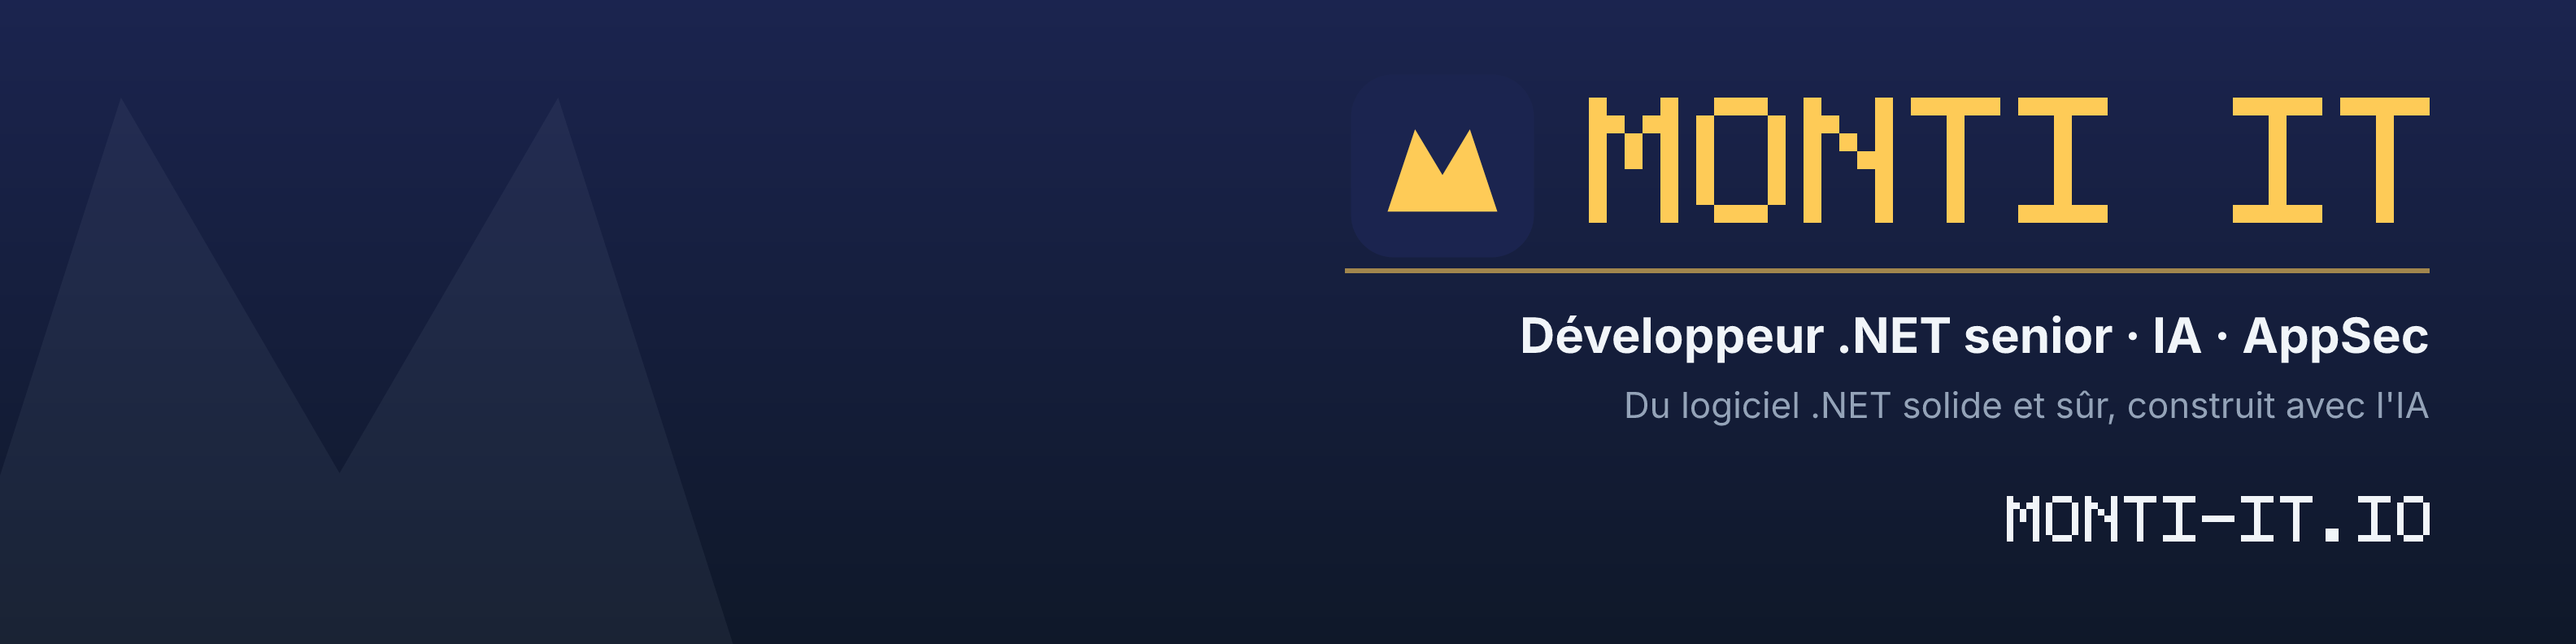
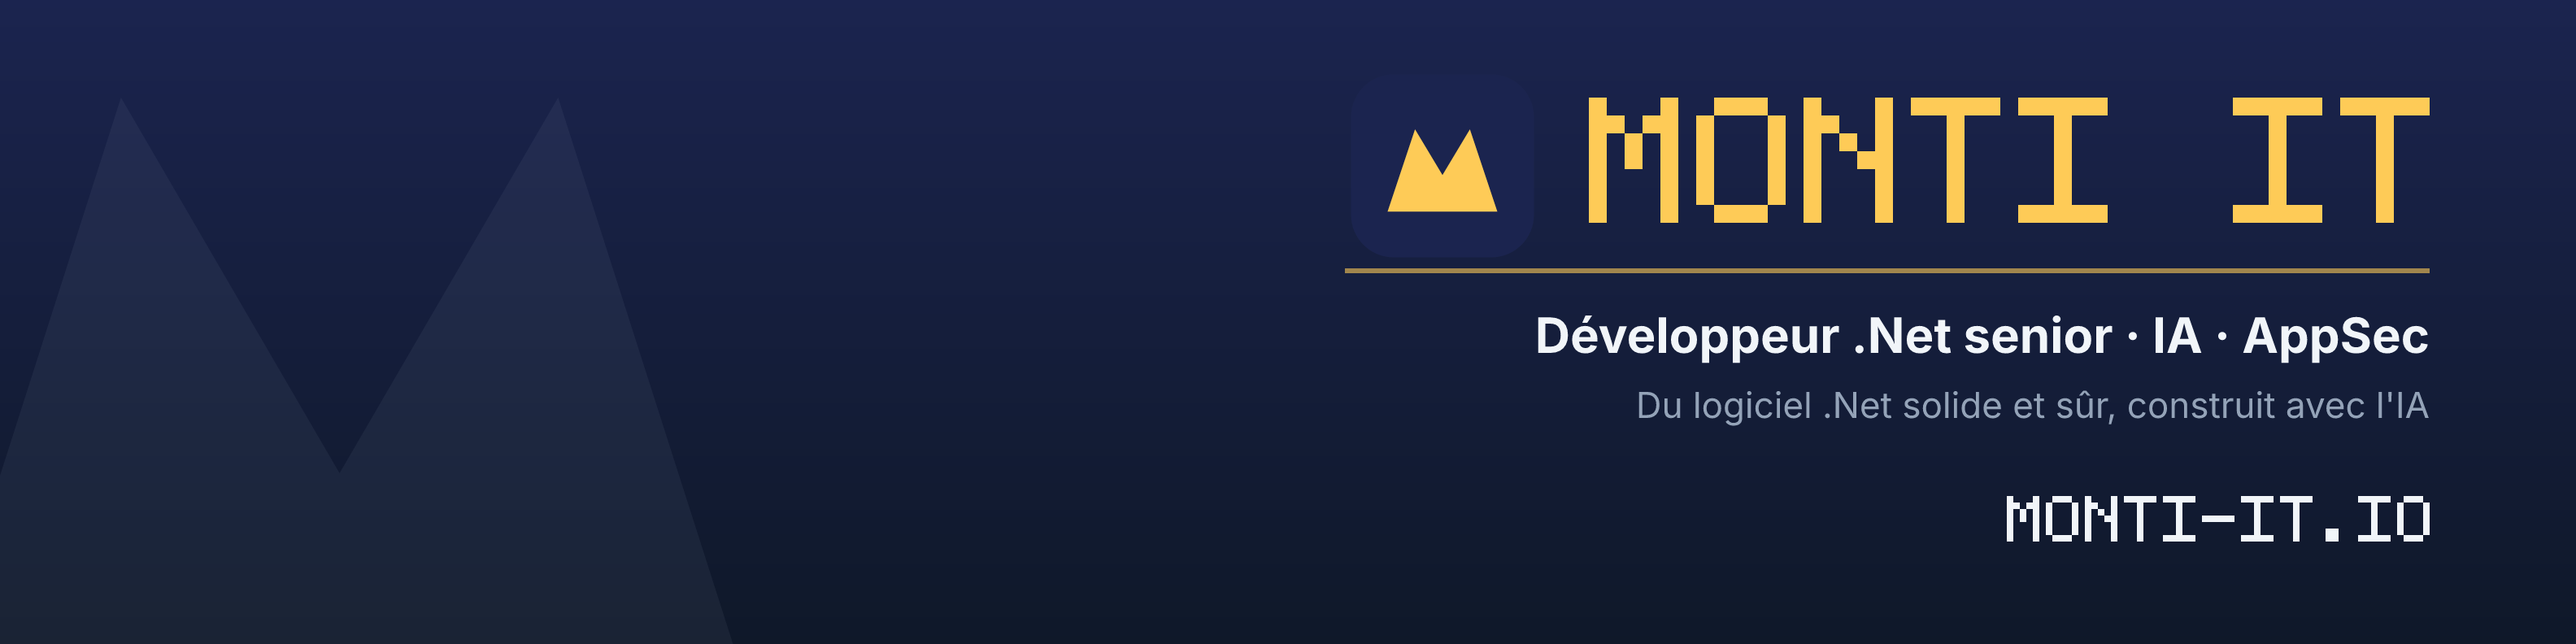
feat: say "Développeur .Net senior" in the role title and write ".Net" everywhere (#140)
* feat: say "Développeur .Net FullStack senior" in the role title (#136)

* feat: write ".Net" in the hero stack tag and Skills (#136)

* docs(linkedin): keep "Développeur .Net FullStack senior" and write ".Net" (#136)

* chore: regenerate the résumé PDF and the banners (#136)

* feat: keep "FullStack" out of the role title, only in the About (#136)

The role title is back to "Développeur .Net senior" / "Senior .Net
developer" in the eyebrow, SEO titles, index.html, banner alt and the
résumé title. "FullStack" stays only in the résumé profile sentence and,
per the LinkedIn skill, once in the About, as a search keyword.

---------

Changed region(s): [[0.5938, 0.4848, 0.7812, 0.5758], [0.625, 0.6061, 0.75, 0.6667]]

diff --git a/src/i18n/translations.js b/src/i18n/translations.js
@@ -24,9 +24,9 @@ export const translations = {
       rights: 'Tous droits réservés.'
     },
     header: {
-      eyebrow: 'Développeur .NET senior · IA · AppSec',
-      title: "Du logiciel .NET solide et sûr, construit avec l'IA",
-      lead: 'Votre application .NET modernisée plus vite, sans rien céder sur la qualité : architecture robuste, code testé, failles fermées avant la prod. Des agents IA écrivent le code sous ma direction, et 21 ans de .NET me permettent de le juger avec un œil de sécurité.',
+      eyebrow: 'Développeur .Net senior · IA · AppSec',
+      title: "Du logiciel .Net solide et sûr, construit avec l'IA",
+      lead: 'Votre application .Net modernisée plus vite, sans rien céder sur la qualité : architecture robuste, code testé, failles fermées avant la prod. Des agents IA écrivent le code sous ma direction, et 21 ans de .Net me permettent de le juger avec un œil de sécurité.',
       ctaMore: 'En savoir plus',
       panelTitle: 'Expertise & impact',
       panelQuote:
@@ -47,7 +47,7 @@ export const translations = {
         competences: {
           title: 'Stack technique complète',
           description:
-            '.NET, Angular, React, bases de données, cloud et outils DevOps'
+            '.Net, Angular, React, bases de données, cloud et outils DevOps'
         },
         securite: {
           title: 'AppSec & IA',
@@ -80,7 +80,7 @@ export const translations = {
       eyebrow: 'Expertise',
       title: "Ce que j'apporte à une équipe",
       subtitle:
-        'Du code .NET solide et sûr, une équipe qui progresse, un besoin clairement posé.',
+        'Du code .Net solide et sûr, une équipe qui progresse, un besoin clairement posé.',
       pillars: {
         ai: {
           title: "Construire avec l'IA",
@@ -483,7 +483,7 @@ export const translations = {
       eyebrow: 'Informations légales',
       title: 'Mentions légales',
       bindingNote: '',
-      bannerAlt: 'Monti IT, développeur .NET senior freelance',
+      bannerAlt: 'Monti IT, développeur .Net senior freelance',
       sections: {
         publisher: {
           title: 'Éditeur du site',
@@ -634,9 +634,9 @@ export const translations = {
     },
     seo: {
       home: {
-        title: 'Développeur .NET senior freelance · IA & AppSec',
+        title: 'Développeur .Net senior freelance · IA & AppSec',
         description:
-          '21 ans de .NET : des agents IA écrivent le code sous ma direction, je le relis avec un œil de sécurité. Missions ou forfait.'
+          '21 ans de .Net : des agents IA écrivent le code sous ma direction, je le relis avec un œil de sécurité. Missions ou forfait.'
       },
       expertise: {
         title: 'Expertise & Leadership technique',
@@ -644,9 +644,9 @@ export const translations = {
           "Pilotage d'équipe, software craftsmanship, CI/CD, sécurité et méthodes Agile : l'accompagnement technique complet d'un développeur senior freelance."
       },
       competences: {
-        title: 'Compétences techniques — .NET, Angular, React, Azure DevOps',
+        title: 'Compétences techniques — .Net, Angular, React, Azure DevOps',
         description:
-          'Stack technique complète : C#, .NET Core, Angular, React, TypeScript, SQL Server, Azure DevOps, Docker, Kubernetes et bonnes pratiques de sécurité.'
+          'Stack technique complète : C#, .Net Core, Angular, React, TypeScript, SQL Server, Azure DevOps, Docker, Kubernetes et bonnes pratiques de sécurité.'
       },
       reseau: {
         title: 'Réseau & Infrastructure',
@@ -680,7 +680,7 @@ export const translations = {
       resume: {
         title: 'Résumé de carrière',
         description:
-          "Christophe Monti, développeur .NET senior : modernisation d'applications .NET critiques avec l'IA, sans céder sur la qualité ni la sécurité applicative. Parcours et expériences."
+          "Christophe Monti, développeur .Net senior : modernisation d'applications .Net critiques avec l'IA, sans céder sur la qualité ni la sécurité applicative. Parcours et expériences."
       },
       notFound: {
         title: 'Page introuvable',
@@ -767,9 +767,9 @@ export const translations = {
       rights: 'All rights reserved.'
     },
     header: {
-      eyebrow: 'Senior .NET developer · AI · AppSec',
-      title: 'Solid, secure .NET software, built with AI',
-      lead: 'Your .NET application modernized faster, with no compromise on quality: robust architecture, tested code, vulnerabilities closed before production. AI agents write the code under my direction, and 21 years of .NET let me judge it with a security mindset.',
+      eyebrow: 'Senior .Net developer · AI · AppSec',
+      title: 'Solid, secure .Net software, built with AI',
+      lead: 'Your .Net application modernized faster, with no compromise on quality: robust architecture, tested code, vulnerabilities closed before production. AI agents write the code under my direction, and 21 years of .Net let me judge it with a security mindset.',
       ctaMore: 'Learn more',
       panelTitle: 'Expertise & impact',
       panelQuote:
@@ -790,7 +790,7 @@ export const translations = {
         competences: {
           title: 'Full technical stack',
           description:
-            '.NET, Angular, React, databases, cloud and DevOps tooling'
+            '.Net, Angular, React, databases, cloud and DevOps tooling'
         },
         securite: {
           title: 'AppSec & AI',
@@ -823,7 +823,7 @@ export const translations = {
       eyebrow: 'Expertise',
       title: 'What I bring to a team',
       subtitle:
-        'Solid, secure .NET code, a team that keeps growing, and requirements that are clearly defined.',
+        'Solid, secure .Net code, a team that keeps growing, and requirements that are clearly defined.',
       pillars: {
         ai: {
           title: 'Building with AI',
@@ -1220,7 +1220,7 @@ export const translations = {
       title: 'Legal notice',
       bindingNote:
         'This English version is provided for convenience. The French version (mentions légales) is the legally binding one.',
-      bannerAlt: 'Monti IT, senior freelance .NET developer',
+      bannerAlt: 'Monti IT, senior freelance .Net developer',
       sections: {
         publisher: {
           title: 'Publisher',
@@ -1373,9 +1373,9 @@ export const translations = {
     },
     seo: {
       home: {
-        title: 'Senior .NET freelance developer · AI & AppSec',
+        title: 'Senior .Net freelance developer · AI & AppSec',
         description:
-          '21 years of .NET: AI agents write the code under my direction, and I review it with a security mindset. Engagements or fixed-price.'
+          '21 years of .Net: AI agents write the code under my direction, and I review it with a security mindset. Engagements or fixed-price.'
       },
       expertise: {
         title: 'Expertise & Technical Leadership',
@@ -1383,9 +1383,9 @@ export const translations = {
           'Team leadership, software craftsmanship, CI/CD, security and Agile methods: the complete technical support of a senior freelance developer.'
       },
       competences: {
-        title: 'Technical Skills — .NET, Angular, React, Azure DevOps',
+        title: 'Technical Skills — .Net, Angular, React, Azure DevOps',
         description:
-          'Full technical stack: C#, .NET Core, Angular, React, TypeScript, SQL Server, Azure DevOps, Docker, Kubernetes and security best practices.'
+          'Full technical stack: C#, .Net Core, Angular, React, TypeScript, SQL Server, Azure DevOps, Docker, Kubernetes and security best practices.'
       },
       reseau: {
         title: 'Network & Infrastructure',
@@ -1419,7 +1419,7 @@ export const translations = {
       resume: {
         title: 'Career résumé',
         description:
-          'Christophe Monti, senior .NET developer: modernizing critical .NET applications with AI, with no compromise on quality or application security. Background and experience.'
+          'Christophe Monti, senior .Net developer: modernizing critical .Net applications with AI, with no compromise on quality or application security. Background and experience.'
       },
       notFound: {
         title: 'Page not found',

diff --git a/src/i18n/roleTitle.test.js b/src/i18n/roleTitle.test.js
@@ -1,0 +1,86 @@
+import { describe, it, expect } from 'vitest'
+import { readFileSync } from 'node:fs'
+import { translations } from './translations'
+// Only tests may import resume.json (see src/data/resume.test.js).
+import resume from '../data/resume.json'
+
+// ".Net" is the preferred spelling; "ASP.NET" stays, it's one product name.
+const standaloneDotNet = /(?<!ASP)\.N[E]T/
+
+const collectStrings = (value, path = []) => {
+  if (typeof value === 'string') return [[path.join('.'), value]]
+  if (value && typeof value === 'object') {
+    return Object.entries(value).flatMap(([key, child]) =>
+      collectStrings(child, [...path, key])
+    )
+  }
+  return []
+}
+
+describe('role title', () => {
+  it.each([
+    ['fr', 'header.eyebrow', 'Développeur .Net senior · IA · AppSec'],
+    ['en', 'header.eyebrow', 'Senior .Net developer · AI · AppSec'],
+    ['fr', 'seo.home.title', 'Développeur .Net senior freelance · IA & AppSec'],
+    ['en', 'seo.home.title', 'Senior .Net freelance developer · AI & AppSec'],
+    [
+      'fr',
+      'legalNotice.bannerAlt',
+      'Monti IT, développeur .Net senior freelance'
+    ],
+    ['en', 'legalNotice.bannerAlt', 'Monti IT, senior freelance .Net developer']
+  ])('%s %s reads the role title', (lang, key, expected) => {
+    const value = key
+      .split('.')
+      .reduce((node, part) => node[part], translations[lang])
+    expect(value).toBe(expected)
+  })
+
+  it.each([
+    ['fr', 'Christophe Monti, développeur .Net senior : '],
+    ['en', 'Christophe Monti, senior .Net developer: ']
+  ])('%s seo.resume.description starts with the role title', (lang, start) => {
+    expect(translations[lang].seo.resume.description.startsWith(start)).toBe(
+      true
+    )
+  })
+
+  it('résumé title reads the role title', () => {
+    expect(resume.title).toBe('Senior .Net Developer · AI · AppSec | Freelance')
+  })
+
+  it('index.html static titles read the French home title', () => {
+    const html = readFileSync(
+      new URL('../../index.html', import.meta.url),
+      'utf8'
+    )
+    const expected =
+      'Développeur .Net senior freelance · IA &amp; AppSec | Monti IT'
+    expect(html.match(/<title>\s*([^<]*?)\s*<\/title>/)[1]).toBe(expected)
+    for (const property of ['og:title', 'twitter:title']) {
+      const meta = html.match(
+        new RegExp(`(?:property|name)="${property}"\\s+content="([^"]*)"`)
+      )
+      expect(meta?.[1], property).toBe(expected)
+    }
+  })
+})
+
+describe('".Net" spelling', () => {
+  it.each(['fr', 'en'])(
+    '%s translations never write the all-caps spelling',
+    (lang) => {
+      const offenders = collectStrings(translations[lang]).filter(([, text]) =>
+        standaloneDotNet.test(text)
+      )
+      expect(offenders).toEqual([])
+    }
+  )
+
+  it('resume.json never writes the all-caps spelling', () => {
+    const offenders = collectStrings(resume).filter(([, text]) =>
+      standaloneDotNet.test(text)
+    )
+    expect(offenders).toEqual([])
+  })
+})

diff --git a/index.html b/index.html
@@ -7,7 +7,7 @@
     <meta name="viewport" content="width=device-width, initial-scale=1.0" />
     <meta
       name="description"
-      content="21 ans de .NET : des agents IA écrivent le code sous ma direction, je le relis avec un œil de sécurité. Missions ou forfait."
+      content="21 ans de .Net : des agents IA écrivent le code sous ma direction, je le relis avec un œil de sécurité. Missions ou forfait."
     />
     <link rel="canonical" href="https://monti-it.io/" />
     <link rel="alternate" hreflang="fr" href="https://monti-it.io/" />
@@ -16,11 +16,11 @@
     <meta property="og:type" content="website" />
     <meta
       property="og:title"
-      content="Développeur .NET senior freelance · IA &amp; AppSec | Monti IT"
+      content="Développeur .Net senior freelance · IA &amp; AppSec | Monti IT"
     />
     <meta
       property="og:description"
-      content="21 ans de .NET : des agents IA écrivent le code sous ma direction, je le relis avec un œil de sécurité. Missions ou forfait."
+      content="21 ans de .Net : des agents IA écrivent le code sous ma direction, je le relis avec un œil de sécurité. Missions ou forfait."
     />
     <meta property="og:url" content="https://monti-it.io/" />
     <meta property="og:image" content="https://monti-it.io/og-image.png" />
@@ -33,14 +33,14 @@
     <meta name="twitter:card" content="summary_large_image" />
     <meta
       name="twitter:title"
-      content="Développeur .NET senior freelance · IA &amp; AppSec | Monti IT"
+      content="Développeur .Net senior freelance · IA &amp; AppSec | Monti IT"
     />
     <meta
       name="twitter:description"
-      content="21 ans de .NET : des agents IA écrivent le code sous ma direction, je le relis avec un œil de sécurité. Missions ou forfait."
+      content="21 ans de .Net : des agents IA écrivent le code sous ma direction, je le relis avec un œil de sécurité. Missions ou forfait."
     />
     <title>
-      Développeur .NET senior freelance · IA &amp; AppSec | Monti IT
+      Développeur .Net senior freelance · IA &amp; AppSec | Monti IT
     </title>
   </head>
   <body>

diff --git a/src/components/Skills.jsx b/src/components/Skills.jsx
@@ -37,7 +37,7 @@ const skillCategories = [
         url: 'https://docs.microsoft.com/en-us/dotnet/csharp/'
       },
       {
-        name: '.NET Core',
+        name: '.Net Core',
         logo: dotnetcoreLogo,
         url: 'https://dotnet.microsoft.com/'
       },

diff --git a/src/components/Header.jsx b/src/components/Header.jsx
@@ -2,7 +2,7 @@ import { useLanguage } from '../i18n/useLanguage'
 import { CONTACT_EMAIL } from '../data/contact'
 
 const stack = [
-  '.NET',
+  '.Net',
   'Angular',
   'React',
   'SQL',

diff --git a/.claude/skills/linkedin/SKILL.md b/.claude/skills/linkedin/SKILL.md
@@ -47,8 +47,9 @@ decision) and list the disagreement in the drift report (step 6), quoting both v
 Check at least:
 
 - **Identity line**: `resume.json` `title` vs `header.eyebrow` (`en`, since `title` is English;
-  then make sure the `fr` eyebrow says the same thing). Ignore case and a trailing `| Freelance` status;
-  anything else that differs (a missing or extra role keyword, "FullStack", ".Net" vs ".NET") is drift.
+  then make sure the `fr` eyebrow says the same thing). Ignore title case ("Developer" vs "developer")
+  and a trailing `| Freelance` status; anything else that differs (a missing or extra role keyword) is
+  drift, and so is "FullStack" in either title or an all-caps ".NET" outside "ASP.NET" in either source.
 - **Shared roles** (same `key` in `resume.json` `experience[]` and `experienceMeta`): `period`, `sector`,
   `company`, `location`. Hyphen vs en dash isn't drift. Wording of descriptions differs on purpose, so
   only flag a contradiction of fact (a different number, technology or scope).
@@ -63,8 +64,11 @@ Check at least:
 
 ### Wording rules (positioning, decided in #70)
 
-- Keep **"Développeur .NET senior"** (EN: "Senior .NET developer") visible, in the Headline and early in
-  About, so recruiter searches on .NET find the profile.
+- Keep **"Développeur .Net senior"** (EN: "Senior .Net developer") visible, in the Headline and early in
+  About, so recruiter searches on .Net find the profile.
+- Say **"FullStack"** once in About, as a search keyword ("Développeur .Net FullStack senior" / "Senior
+  .Net FullStack developer"), and nowhere else: not in the Headline, Experience or Top skills.
+- Write **".Net"**, never ".NET", except in the product name "ASP.NET" ("ASP.NET Core", "ASP.NET MVC").
 - Imply that **AI agents write the code and Christophe frames, reviews and owns it**. Say it plainly
   ("des agents IA écrivent le code sous ma direction : je cadre, je relis et je réponds du résultat"),
   never as "I no longer code".
@@ -106,7 +110,7 @@ Check at least:
     project (`experienceMeta.project`) and its `tech` on one line. You may add tasks from the matching
     `additional.careerHistory` entry (French only: translate them for the English profile).
 - **Top skills**: exactly 5 LinkedIn skills, one per line, taken from `Skills.jsx` / `resume.json`
-  `skills`. Include .NET (or C#) and ASP.NET Core, one application-security skill (e.g. "Sécurité
+  `skills`. Include .Net (or C#) and ASP.NET Core, one application-security skill (e.g. "Sécurité
   applicative" / "Application Security", or "OWASP Top 10"), and the rest from DevOps/architecture.
   Use names LinkedIn's skill picker recognises.
 
